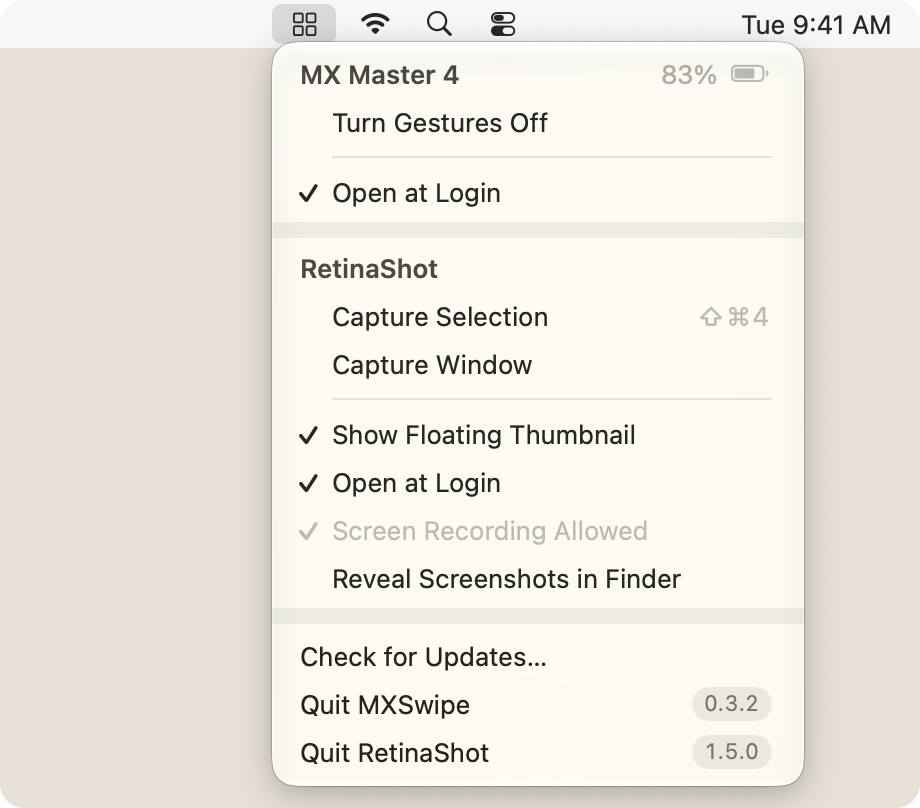
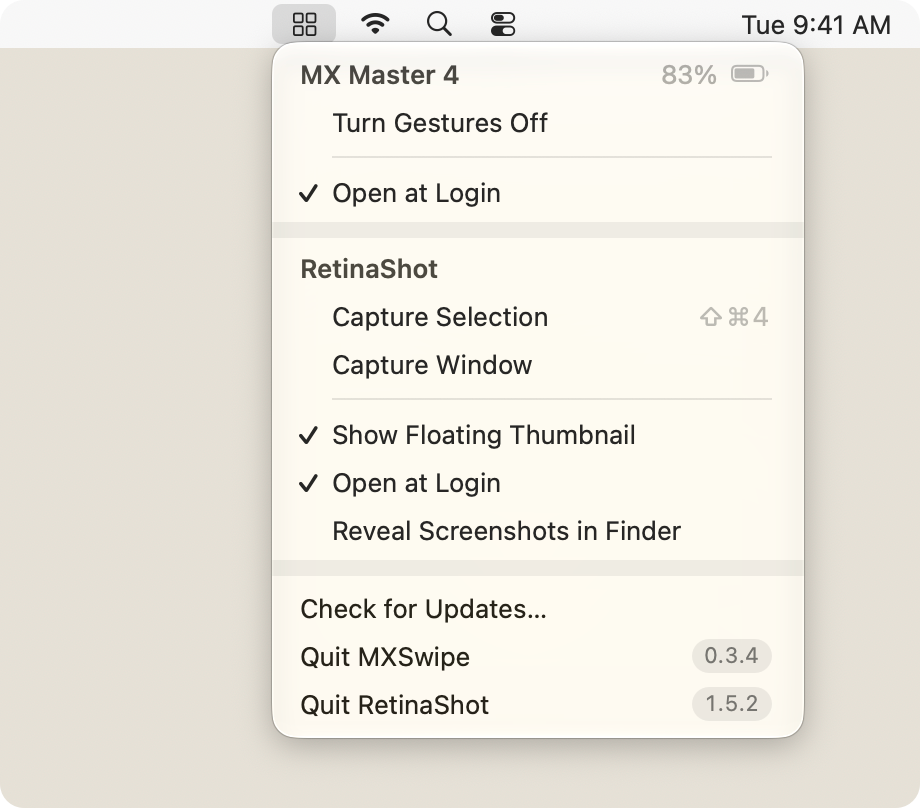
Keep the shown menu from enabling rows its apps disabled; preview RetinaShot's current section

diff --git a/Tools/make-preview.swift b/Tools/make-preview.swift
@@ -15,17 +15,16 @@ let size = NSSize(width: 460, height: 404)
 let barHeight: CGFloat = 24
 
 @MainActor func sampleMembers() -> [Member] {
-    let mxswipe = Member(pid: 1, name: "MXSwipe", version: "0.3.2", launched: Date(), yieldsIcon: false, checksForUpdates: true, revision: 0,
+    let mxswipe = Member(pid: 1, name: "MXSwipe", version: "0.3.4", launched: Date(), yieldsIcon: false, checksForUpdates: true, revision: 0,
                          isActive: true, symbol: nil, toolTip: nil,
                          header: MenuHeader(title: "MX Master 4", detail: .battery(83)), items: [
                              .action("Turn Gestures Off") {}, .separator, .action("Open at Login", isOn: true) {},
                          ])
-    let retinashot = Member(pid: 2, name: "RetinaShot", version: "1.5.0", launched: Date(), yieldsIcon: true, checksForUpdates: true, revision: 0,
+    let retinashot = Member(pid: 2, name: "RetinaShot", version: "1.5.2", launched: Date(), yieldsIcon: true, checksForUpdates: true, revision: 0,
                             isActive: true, symbol: nil, toolTip: nil, header: nil, items: [
                                 .action("Capture Selection", key: "4", modifiers: [.shift, .command]) {},
                                 .action("Capture Window") {}, .separator,
                                 .action("Show Floating Thumbnail", isOn: true) {}, .action("Open at Login", isOn: true) {},
-                                .info("Screen Recording Allowed", isOn: true), .alternate("Reset Screen Recording Permission…") {},
                                 .action("Reveal Screenshots in Finder") {},
                             ])
     return [mxswipe, retinashot]

diff --git a/Sources/MenuHub/MenuHub.swift b/Sources/MenuHub/MenuHub.swift
@@ -267,12 +267,17 @@ public final class MenuHub: NSObject {
         let canCheck = others.isEmpty ? updater?.canCheckForUpdates ?? false : updateRound == nil
         let fresh = NSMenu()
         Self.populate(fresh, with: sortedMembers, canCheckForUpdates: canCheck, target: self)
+        Self.show(fresh, in: menu, whileOpen: menuIsOpen)
+    }
+
+    /// Moves the rows built in `fresh` into `menu`. Replacing the items of an open menu makes AppKit measure it
+    /// again, and it jumps to another width, so an open menu with the same rows is updated in place instead.
+    static func show(_ fresh: NSMenu, in menu: NSMenu, whileOpen: Bool) {
         let items = fresh.items
         fresh.removeAllItems()
-        // Replacing the items of an open menu makes AppKit measure it again, and it jumps to another width. An
-        // open menu with the same rows is updated in place instead.
-        if menuIsOpen, menu.items.count == items.count, zip(menu.items, items).allSatisfy(Self.isSameKind) {
-            for (item, new) in zip(menu.items, items) { Self.update(item, to: new) }
+        menu.autoenablesItems = false  // as on `fresh`: items are enabled as described, not by AppKit
+        if whileOpen, menu.items.count == items.count, zip(menu.items, items).allSatisfy(isSameKind) {
+            for (item, new) in zip(menu.items, items) { update(item, to: new) }
         } else {
             menu.removeAllItems()
             items.forEach(menu.addItem)

diff --git a/Tests/MenuHubTests/MenuHubTests.swift b/Tests/MenuHubTests/MenuHubTests.swift
@@ -107,6 +107,16 @@ final class MenuLayoutTests: XCTestCase {
         XCTAssertFalse(menu.items[menu.items.count - 2].isEnabled)
     }
 
+    func testRowsMovedIntoTheShownMenuKeepTheirEnabledState() {
+        let fresh = NSMenu()
+        MenuHub.populate(fresh, with: [member("MXSwipe", pid: 1)], canCheckForUpdates: true, target: nil)
+        let shown = NSMenu()
+        MenuHub.show(fresh, in: shown, whileOpen: false)
+        shown.update()
+        XCTAssertTrue(fresh.items.isEmpty)
+        XCTAssertEqual(shown.items.filter { !$0.isSeparatorItem }.map(\.isEnabled), [true, false, false, false, true])
+    }
+
     func testItemsAreEnabledAsDescribed() {
         let menu = NSMenu()
         MenuHub.populate(menu, with: [member("MXSwipe", pid: 1)], canCheckForUpdates: true, target: nil)
